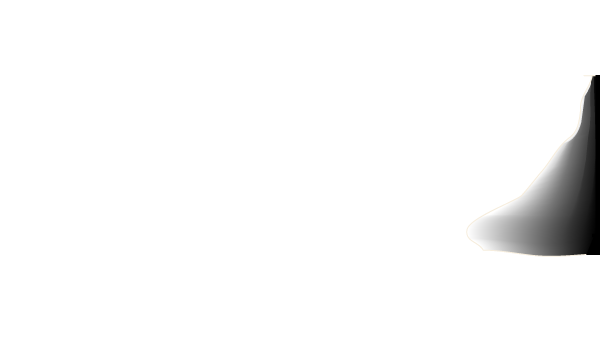
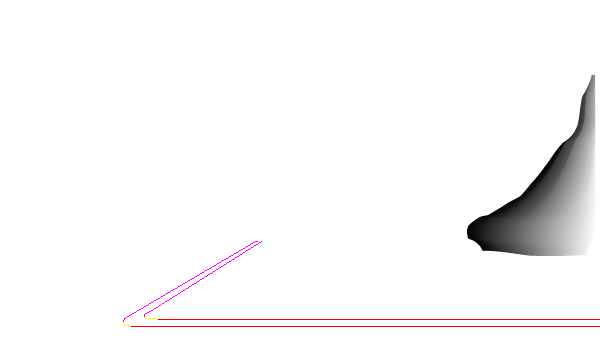
update gh-pages to 444dad2
444dad2 air pollution: fixup calc of wind stoppage
0c6becd air pollution: WIP on cars

diff --git a/air-pollution/javascripts/app.js b/air-pollution/javascripts/app.js
@@ -516,13 +516,12 @@ AirPollutionModel = (function(_super) {
 
   function AirPollutionModel() {
     AirPollutionModel.__super__.constructor.apply(this, arguments);
-    this.setNumCars(1);
-    this.setNumFactories(1);
+    this.setNumFactories(0);
     this.setRootVars();
   }
 
   AirPollutionModel.prototype.setup = function() {
-    var carImg, factoryImg;
+    var factoryImg;
     this.anim.setRate(50, false);
     this.setFastPatches();
     this.patches.usePixels(true);
@@ -532,24 +531,27 @@ AirPollutionModel = (function(_super) {
     this.setLabelParams({
       name: "drawing"
     }, [255, 255, 255], [0, -20]);
-    this.patches.importColors("img/air-pollution-bg-mask.png");
+    this.patches.importColors("img/air-pollution-bg-mask.png", (function(_this) {
+      return function() {
+        return _this.setupCars();
+      };
+    })(this));
     this.patches.importDrawing("img/air-pollution-bg.png");
     this.setCacheAgentsHere();
-    carImg = document.getElementById('car-sprite');
+    ['sedan-left-side', 'sedan-right-side', 'sedan-front-quarter', 'sedan-rear-quarter', 'sedan-front', 'sedan-rear'].forEach(function(shapeName) {
+      var flip, img;
+      img = document.getElementById(shapeName.replace(/-.*-side/, '-side'));
+      flip = (shapeName.indexOf('-right-side') > 0) || (shapeName.indexOf('-front-quarter') > 0);
+      return ABM.shapes.add(shapeName, false, function(ctx) {
+        ctx.scale((flip ? -1 : 1), -1);
+        ctx.translate(0, -img.height);
+        if (flip) {
+          ctx.translate(-img.width, 0);
+        }
+        return ctx.drawImage(img, 0, 0);
+      });
+    });
     factoryImg = document.getElementById('factory-sprite');
-    ABM.shapes.add("left-car", false, (function(_this) {
-      return function(ctx) {
-        ctx.scale(-1, 1);
-        ctx.rotate(_this.LEFT);
-        return ctx.drawImage(carImg, 0, 0);
-      };
-    })(this));
-    ABM.shapes.add("right-car", false, (function(_this) {
-      return function(ctx) {
-        ctx.rotate(_this.LEFT);
-        return ctx.drawImage(carImg, 0, 0);
-      };
-    })(this));
     ABM.shapes.add("factory", false, (function(_this) {
       return function(ctx) {
         ctx.scale(-1, 1);
@@ -565,43 +567,9 @@ AirPollutionModel = (function(_super) {
         return ctx.fill();
       };
     })(this));
-    this.CAR_SPAWN = [
-      {
-        x: this.world.maxX - 45,
-        heading: this.LEFT
-      }, {
-        x: this.world.maxX - 404,
-        heading: this.RIGHT
-      }, {
-        x: this.world.maxX - 223,
-        heading: this.LEFT
-      }, {
-        x: this.world.maxX - 226,
-        heading: this.RIGHT
-      }, {
-        x: this.world.maxX - 134,
-        heading: this.LEFT
-      }, {
-        x: this.world.maxX - 315,
-        heading: this.RIGHT
-      }, {
-        x: this.world.maxX - 312,
-        heading: this.LEFT
-      }, {
-        x: this.world.maxX - 137,
-        heading: this.RIGHT
-      }, {
-        x: this.world.maxX - 401,
-        heading: this.LEFT
-      }, {
-        x: this.world.maxX - 48,
-        heading: this.RIGHT
-      }
-    ];
     this.agentBreeds("wind cars factories primary secondary rain sunlight");
     this.setupFactories();
     this.setupWind();
-    this.setupCars();
     this.setupPollution();
     this.setupRain();
     if (this.includeSunlight) {
@@ -652,22 +620,79 @@ AirPollutionModel = (function(_super) {
   };
 
   AirPollutionModel.prototype.setupCars = function() {
+    var i, p, tracks, _i;
     this.cars.setDefaultSize(1);
-    this.cars.setDefaultHeading(this.LEFT);
-    this.cars.setDefaultShape("left-car");
-    this.cars.setDefaultColor([0, 0, 0]);
-    this.cars.setDefaultHidden(true);
-    this.cars.create(this.maxNumCars, (function(_this) {
-      return function(c) {
-        var pos;
-        pos = _this.CAR_SPAWN[_this.cars.length - 1];
-        c.moveTo(_this.patches.patchXY(pos.x, 40));
-        c.heading = pos.heading;
-        c.shape = pos.heading === 0 ? 'right-car' : 'left-car';
-        return c.createTick = _this.anim.ticks || 0;
+    tracks = [];
+    p = ABM.patches.patchXY(ABM.patches.maxX, ABM.patches.maxY);
+    for (i = _i = 0; _i <= 1; i = ++_i) {
+      while (!(p.color[0] === 255 && p.color[1] === 0)) {
+        p = p.n[1];
+        if (p.y < 1) {
+          break;
+        }
+      }
+      tracks[i] = this.followTrack(p);
+      p = p.n[1];
+    }
+    tracks[1].reverse();
+    this.tracks = tracks.map(function(track, i) {
+      var headingLeft, yMax, yMin, _ref;
+      headingLeft = i === 0;
+      _ref = [track[0].y, track[track.length - 1].y].sort(function(a, b) {
+        return a - b;
+      }), yMin = _ref[0], yMax = _ref[1];
+      return track.map(function(p) {
+        var dist, distsq;
+        dist = (p.y - yMin) / (yMax - yMin);
+        distsq = dist * dist;
+        return {
+          patch: p,
+          dwellTime: 1 + Math.ceil(5 * distsq),
+          scale: 1 - 0.9 * distsq,
+          shapeSuffix: p.color[1] > 100 ? headingLeft ? 'rear-quarter' : 'front-quarter' : p.color[2] > 100 ? headingLeft ? 'rear' : 'front' : headingLeft ? 'left-side' : 'right-side'
+        };
+      });
+    });
+    this.cars.create(1, (function(_this) {
+      return function(car) {
+        car.track = _this.tracks[0];
+        return car.moveTo(car.track[0].patch);
       };
     })(this));
-    return this.setNumCars(1);
+    return this.cars.create(1, (function(_this) {
+      return function(car) {
+        car.track = _this.tracks[1];
+        return car.moveTo(car.track[0].patch);
+      };
+    })(this));
+  };
+
+  AirPollutionModel.prototype.followTrack = function(p) {
+    var i, indexOfReddest, neighbors, patches, reds, reversed, track;
+    track = [];
+    reversed = false;
+    while (p.color[0] > 50) {
+      track.push(p);
+      neighbors = reversed ? [4, 7, 6, 5] : [3, 5, 6, 7];
+      patches = (function() {
+        var _i, _len, _results;
+        _results = [];
+        for (_i = 0, _len = neighbors.length; _i < _len; _i++) {
+          i = neighbors[_i];
+          _results.push(p.n[i]);
+        }
+        return _results;
+      })();
+      reds = patches.map(function(p) {
+        return p.color[0];
+      });
+      indexOfReddest = reds.indexOf(Math.max.apply(null, reds));
+      p = patches[indexOfReddest];
+      if (indexOfReddest === 3 && !reversed) {
+        reversed = true;
+      }
+    }
+    return track;
   };
 
   AirPollutionModel.prototype.setupFactories = function() {
@@ -750,16 +775,7 @@ AirPollutionModel = (function(_super) {
     }
   };
 
-  AirPollutionModel.prototype.setNumCars = function(n) {
-    var c, i, _i, _ref;
-    for (i = _i = 0, _ref = this.cars.length; 0 <= _ref ? _i < _ref : _i > _ref; i = 0 <= _ref ? ++_i : --_i) {
-      c = this.cars[i];
-      c.hidden = i >= n;
-    }
-    if (this.anim.animStop) {
-      return this.draw();
-    }
-  };
+  AirPollutionModel.prototype.setNumCars = function(n) {};
 
   AirPollutionModel.prototype.getNumVisible = function(xs) {
     return xs.filter(function(x) {
@@ -806,23 +822,29 @@ AirPollutionModel = (function(_super) {
   };
 
   AirPollutionModel.prototype.moveCars = function() {
-    var c, _i, _len, _ref, _results;
+    var car, patchInfo, _i, _len, _ref;
     _ref = this.cars;
-    _results = [];
     for (_i = 0, _len = _ref.length; _i < _len; _i++) {
-      c = _ref[_i];
-      if ((c.x - 1) < this.oceanX) {
-        c.heading = this.RIGHT;
-        c.shape = "right-car";
-        c.x += 37;
-      } else if ((c.x + 1) >= (this.world.maxX - 5)) {
-        c.heading = this.LEFT;
-        c.shape = "left-car";
-        c.x -= 37;
+      car = _ref[_i];
+      if (car.trackIndex == null) {
+        car.trackIndex = 0;
       }
-      _results.push(c.forward(1));
+      if (car.ttlAtPatch == null) {
+        car.ttlAtPatch = 1;
+      }
+      if (--car.ttlAtPatch !== 0) {
+        continue;
+      }
+      if (++car.trackIndex === car.track.length) {
+        car.trackIndex = 0;
+      }
+      patchInfo = car.track[car.trackIndex];
+      car.moveTo(patchInfo.patch);
+      car.ttlAtPatch = patchInfo.dwellTime;
+      car.size = patchInfo.scale;
+      car.shape = 'sedan-' + patchInfo.shapeSuffix;
     }
-    return _results;
+    return null;
   };
 
   AirPollutionModel.prototype.movePollution = function() {
@@ -875,7 +897,7 @@ AirPollutionModel = (function(_super) {
     if (this._shouldRemovePollution(a)) {
       return true;
     }
-    distance = (this.windSpeed / 100) * Math.pow(a.p.color[0] / 255, 4);
+    distance = (this.windSpeed / 100) * (1 - a.p.color[0] / 255);
     a.setXY(a.x + distance, a.y);
     if (this._shouldRemovePollution(a)) {
       return true;

diff --git a/air-pollution/index.html b/air-pollution/index.html
@@ -8,7 +8,11 @@
   </head>
   <body>
     <div id="sprites">
-      <img id="car-sprite" src="img/air-pollution-car.png" />
+      <img id="sedan-side" src="img/sedan-side.png" />
+      <img id="sedan-front-quarter" src="img/sedan-front-quarter.png" />
+      <img id="sedan-rear-quarter" src="img/sedan-rear-quarter.png" />
+      <img id="sedan-rear" src="img/sedan-rear.png" />
+      <img id="sedan-front" src="img/sedan-front.png" />
       <img id="factory-sprite" src="img/air-pollution-factory.png" />
       <img id="cloud-sprite" src="img/cloud.svg" />
     </div>
